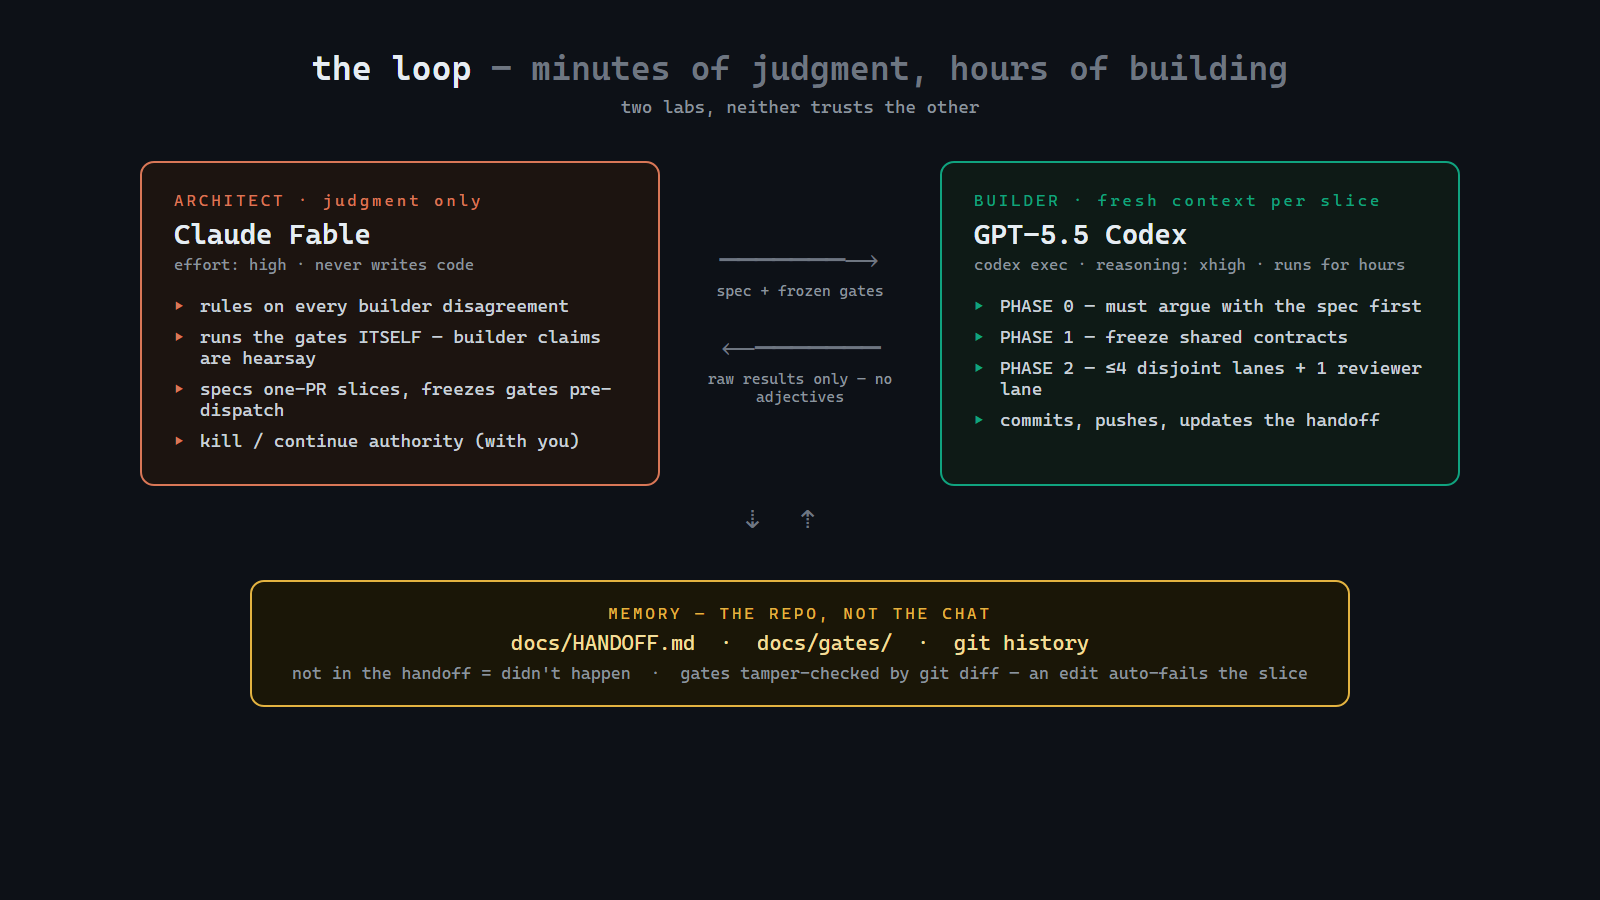
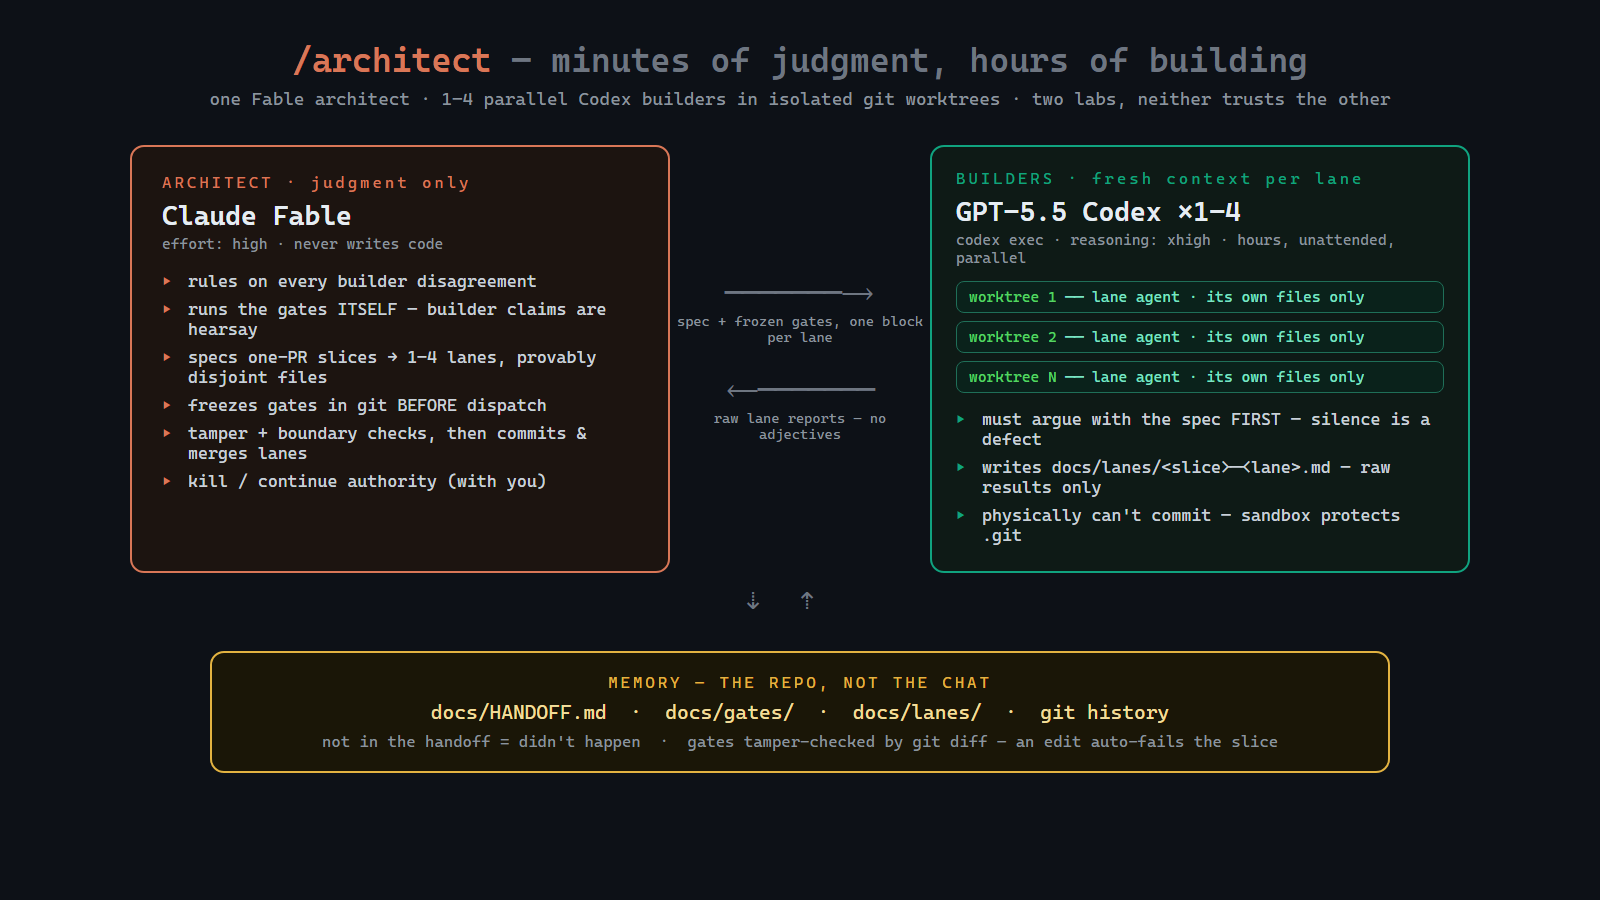
README + diagram lead with /architect and its v2.1 features
Diagram re-rendered: /architect title, architect judgment features, 1-4
worktree lane builders that never commit, docs/lanes/ in the memory bar.
README embeds it and condenses the research-skill section to a pointer.

diff --git a/docs/announcement/img/loop-diagram.html b/docs/announcement/img/loop-diagram.html
@@ -1,34 +1,38 @@
 <!DOCTYPE html>
 <html><head><meta charset="utf-8"><style>
   * { margin:0; padding:0; box-sizing:border-box; }
-  body { width:1600px; height:900px; background:#0d1117; font-family:"Cascadia Code",Consolas,monospace; color:#e6edf3; padding:48px 64px; }
+  body { width:1600px; height:900px; background:#0d1117; font-family:"Cascadia Code",Consolas,monospace; color:#e6edf3; padding:40px 64px; }
   h1 { font-size:34px; font-weight:600; text-align:center; }
+  h1 .cmd { color:#d97757; }
   h1 .dim { color:#6e7681; }
   .sub { text-align:center; color:#8b949e; font-size:18px; margin-top:8px; }
-  .row { display:flex; justify-content:center; align-items:stretch; gap:0; margin-top:44px; }
-  .card { width:520px; border-radius:14px; padding:28px 32px; }
+  .row { display:flex; justify-content:center; align-items:stretch; gap:0; margin-top:36px; }
+  .card { width:540px; border-radius:14px; padding:26px 30px; }
   .fable { background:#1c1410; border:2px solid #d97757; }
-  .codex { background:#0e1a16; border:2px solid #10a37f; }
+  .codex { background:#0e1a16; border:2px solid #10a37f; padding:22px 24px; }
   .card .role { font-size:16px; letter-spacing:3px; }
   .fable .role { color:#d97757; } .codex .role { color:#10a37f; }
-  .card .who { font-size:28px; font-weight:600; margin:8px 0 4px; }
-  .card .eff { font-size:16px; color:#8b949e; margin-bottom:16px; }
+  .card .who { font-size:27px; font-weight:600; margin:8px 0 4px; }
+  .card .eff { font-size:15px; color:#8b949e; margin-bottom:14px; }
   .card ul { list-style:none; }
-  .card li { font-size:18px; color:#c9d1d9; padding:5px 0 5px 26px; position:relative; }
+  .card li { font-size:17px; color:#c9d1d9; padding:4px 0 4px 26px; position:relative; }
   .card li::before { content:"▸"; position:absolute; left:0; }
   .fable li::before { color:#d97757; } .codex li::before { color:#10a37f; }
-  .mid { width:280px; display:flex; flex-direction:column; justify-content:center; gap:30px; }
+  .lanes { display:flex; flex-direction:column; gap:8px; margin:6px 0 12px; }
+  .lane { border:1px solid #1f6f58; border-radius:8px; padding:6px 12px; font-size:15px; color:#7ee2c3; background:#0a221b; }
+  .lane .wt { color:#56d364; }
+  .mid { width:260px; display:flex; flex-direction:column; justify-content:center; gap:28px; }
   .arrow { text-align:center; }
-  .arrow .line { color:#6e7681; font-size:30px; }
-  .arrow .lbl { font-size:15px; color:#8b949e; margin-top:2px; }
-  .repo { margin:46px auto 0; width:1100px; background:#1a1607; border:2px solid #e3b341; border-radius:14px; padding:22px 32px; text-align:center; }
+  .arrow .line { color:#6e7681; font-size:28px; }
+  .arrow .lbl { font-size:14px; color:#8b949e; margin-top:2px; }
+  .repo { margin:36px auto 0; width:1180px; background:#1a1607; border:2px solid #e3b341; border-radius:14px; padding:20px 32px; text-align:center; }
   .repo .role { color:#e3b341; font-size:16px; letter-spacing:3px; }
-  .repo .files { font-size:21px; color:#f2dd9b; margin-top:8px; }
-  .repo .note { font-size:17px; color:#8b949e; margin-top:8px; }
-  .updown { text-align:center; color:#6e7681; font-size:26px; margin-top:18px; letter-spacing:40px; }
+  .repo .files { font-size:20px; color:#f2dd9b; margin-top:8px; }
+  .repo .note { font-size:16px; color:#8b949e; margin-top:8px; }
+  .updown { text-align:center; color:#6e7681; font-size:24px; margin-top:14px; letter-spacing:40px; }
 </style></head><body>
-  <h1>the loop <span class="dim">— minutes of judgment, hours of building</span></h1>
-  <div class="sub">two labs, neither trusts the other</div>
+  <h1><span class="cmd">/architect</span> <span class="dim">— minutes of judgment, hours of building</span></h1>
+  <div class="sub">one Fable architect · 1–4 parallel Codex builders in isolated git worktrees · two labs, neither trusts the other</div>
   <div class="row">
     <div class="card fable">
       <div class="role">ARCHITECT · judgment only</div>
@@ -37,30 +41,36 @@
       <ul>
         <li>rules on every builder disagreement</li>
         <li>runs the gates ITSELF — builder claims are hearsay</li>
-        <li>specs one-PR slices, freezes gates pre-dispatch</li>
+        <li>specs one-PR slices → 1–4 lanes, provably disjoint files</li>
+        <li>freezes gates in git BEFORE dispatch</li>
+        <li>tamper + boundary checks, then commits &amp; merges lanes</li>
         <li>kill / continue authority (with you)</li>
       </ul>
     </div>
     <div class="mid">
-      <div class="arrow"><div class="line">───────⟶</div><div class="lbl">spec + frozen gates</div></div>
-      <div class="arrow"><div class="line">⟵───────</div><div class="lbl">raw results only — no adjectives</div></div>
+      <div class="arrow"><div class="line">───────⟶</div><div class="lbl">spec + frozen gates, one block per lane</div></div>
+      <div class="arrow"><div class="line">⟵───────</div><div class="lbl">raw lane reports — no adjectives</div></div>
     </div>
     <div class="card codex">
-      <div class="role">BUILDER · fresh context per slice</div>
-      <div class="who">GPT-5.5 Codex</div>
-      <div class="eff">codex exec · reasoning: xhigh · runs for hours</div>
+      <div class="role">BUILDERS · fresh context per lane</div>
+      <div class="who">GPT-5.5 Codex ×1–4</div>
+      <div class="eff">codex exec · reasoning: xhigh · hours, unattended, parallel</div>
+      <div class="lanes">
+        <div class="lane"><span class="wt">worktree 1</span> ── lane agent · its own files only</div>
+        <div class="lane"><span class="wt">worktree 2</span> ── lane agent · its own files only</div>
+        <div class="lane"><span class="wt">worktree N</span> ── lane agent · its own files only</div>
+      </div>
       <ul>
-        <li>PHASE 0 — must argue with the spec first</li>
-        <li>PHASE 1 — freeze shared contracts</li>
-        <li>PHASE 2 — ≤4 disjoint lanes + 1 reviewer lane</li>
-        <li>commits, pushes, updates the handoff</li>
+        <li>must argue with the spec FIRST — silence is a defect</li>
+        <li>writes docs/lanes/&lt;slice&gt;-&lt;lane&gt;.md — raw results only</li>
+        <li>physically can't commit — sandbox protects .git</li>
       </ul>
     </div>
   </div>
   <div class="updown">⇣⇡</div>
   <div class="repo">
     <div class="role">MEMORY — THE REPO, NOT THE CHAT</div>
-    <div class="files">docs/HANDOFF.md &nbsp;·&nbsp; docs/gates/ &nbsp;·&nbsp; git history</div>
+    <div class="files">docs/HANDOFF.md &nbsp;·&nbsp; docs/gates/ &nbsp;·&nbsp; docs/lanes/ &nbsp;·&nbsp; git history</div>
     <div class="note">not in the handoff = didn't happen &nbsp;·&nbsp; gates tamper-checked by git diff — an edit auto-fails the slice</div>
   </div>
 </body></html>

diff --git a/README.md b/README.md
@@ -48,25 +48,14 @@ that feeds the build loop's PRD.
 
 ## How it works in one picture
 
-```
- CLAUDE FABLE (architect, minutes)          GPT-5.5 CODEX BUILDERS (hours)
- ─────────────────────────────────          ─────────────────────────────────
- 1 rule on builder disagreements     ──►    worktree 1 ── lane agent (xhigh)
- 2 run the gates ITSELF; judge raw   ──►    worktree 2 ── lane agent (xhigh)
-   evidence vs frozen gates          ──►    worktree 3 ── lane agent (xhigh)
- 3 split the slice into 1-4 lanes
-   with disjoint file sets                  each lane, in parallel:
- 4 freeze gates → commit → dispatch         argue with the spec FIRST →
- 5 per-lane checks (tamper, bounds)         build ONLY its own files →
-   → commit, merge, smoke-run gates  ◄──    raw lane report, no commits
- 6 verdict next session → main
+![/architect — the loop](docs/announcement/img/loop-diagram.png)
 
-            └────── docs/HANDOFF.md + docs/gates/ + docs/lanes/ + git ──────┘
-                  the repo remembers everything; not in it = didn't happen
-
- (optional first step — /architect-research: 6 parallel Codex web-researchers,
-  Fable verifies the claims and writes the cited report that feeds the PRD)
-```
+One architect session per work block: **rule on disagreements → judge the last
+run's raw evidence against frozen gates → split the next slice into 1–4 lanes
+with disjoint file sets → freeze gates, commit, dispatch → per-lane tamper +
+boundary checks → commit, merge, smoke-run gates → verdict next session →
+main.** (Optional first step when you're still deciding what to build:
+`/architect-research` feeds the PRD.)
 
 **Who does what:**
 
@@ -108,35 +97,15 @@ mechanically:
 The economics: judgment minutes on the expensive model, typing hours on the
 flat-rate one. Both halves run on subscriptions you already have.
 
-## The research skill, a layer deeper
+## The optional research skill
 
-`/architect-research` isn't "search the web and summarize." It encodes the
-methodology the best deep-research systems converged on:
-
-- **Brief first** — your question is compressed into a research brief that
-  every later step is audited against.
-- **Six lanes, fanned out in parallel** (each a fresh
-  `codex exec -c web_search="live"`, read-only sandbox):
-  1. **Academic** — arXiv recency queries + Semantic Scholar citation
-     snowballing, survey-first
-  2. **Popular repos** — dependents counts as adoption evidence (stars are
-     gameable; ~4.5M fake stars documented)
-  3. **Cutting-edge repos** — star-velocity + the emerging-vs-hype gate
-  4. **Production patterns** — how the 2-3 best libraries in the niche design
-     APIs, errors, extension points, tests — then a cross-library diff
-  5. **General web** — postmortems, comparisons, official docs
-  6. **Expert opinion** *(second wave)* — blogs/talks/X of the field's named
-     experts, roster-seeded from what lanes 1-5 surface
-- **Verification with teeth** — ≥2 independent sources per load-bearing claim,
-  VERIFIED/UNVERIFIED/DISPUTED/SUSPICIOUS tags, adversarial falsification
-  searches, citations only from URLs actually fetched (agents fabricate 3-13%
-  of URLs otherwise).
-- **One author** — Fable writes the report in a single pass: answer first,
-  confidence per claim, "what would change this conclusion", open questions.
-  Expert *opinions* are positions, never facts; expert *disagreements* are
-  flagged as the genuinely open questions.
-
-The report feeds `/architect`'s PRD when you're ready to build.
+`/architect-research` is the discovery-scale companion for when you're still
+deciding *what* to build: six parallel Codex web-researcher lanes (academic,
+popular repos, cutting-edge repos, production patterns, general web, expert
+opinion), ≥2 independent sources per load-bearing claim, citations only from
+URLs actually fetched. Fable verifies and writes one cited, decision-oriented
+report to `docs/research/` that feeds `/architect`'s PRD. Methodology details:
+[skills/architect-research/SKILL.md](skills/architect-research/SKILL.md).
 
 ## What's in the box
 